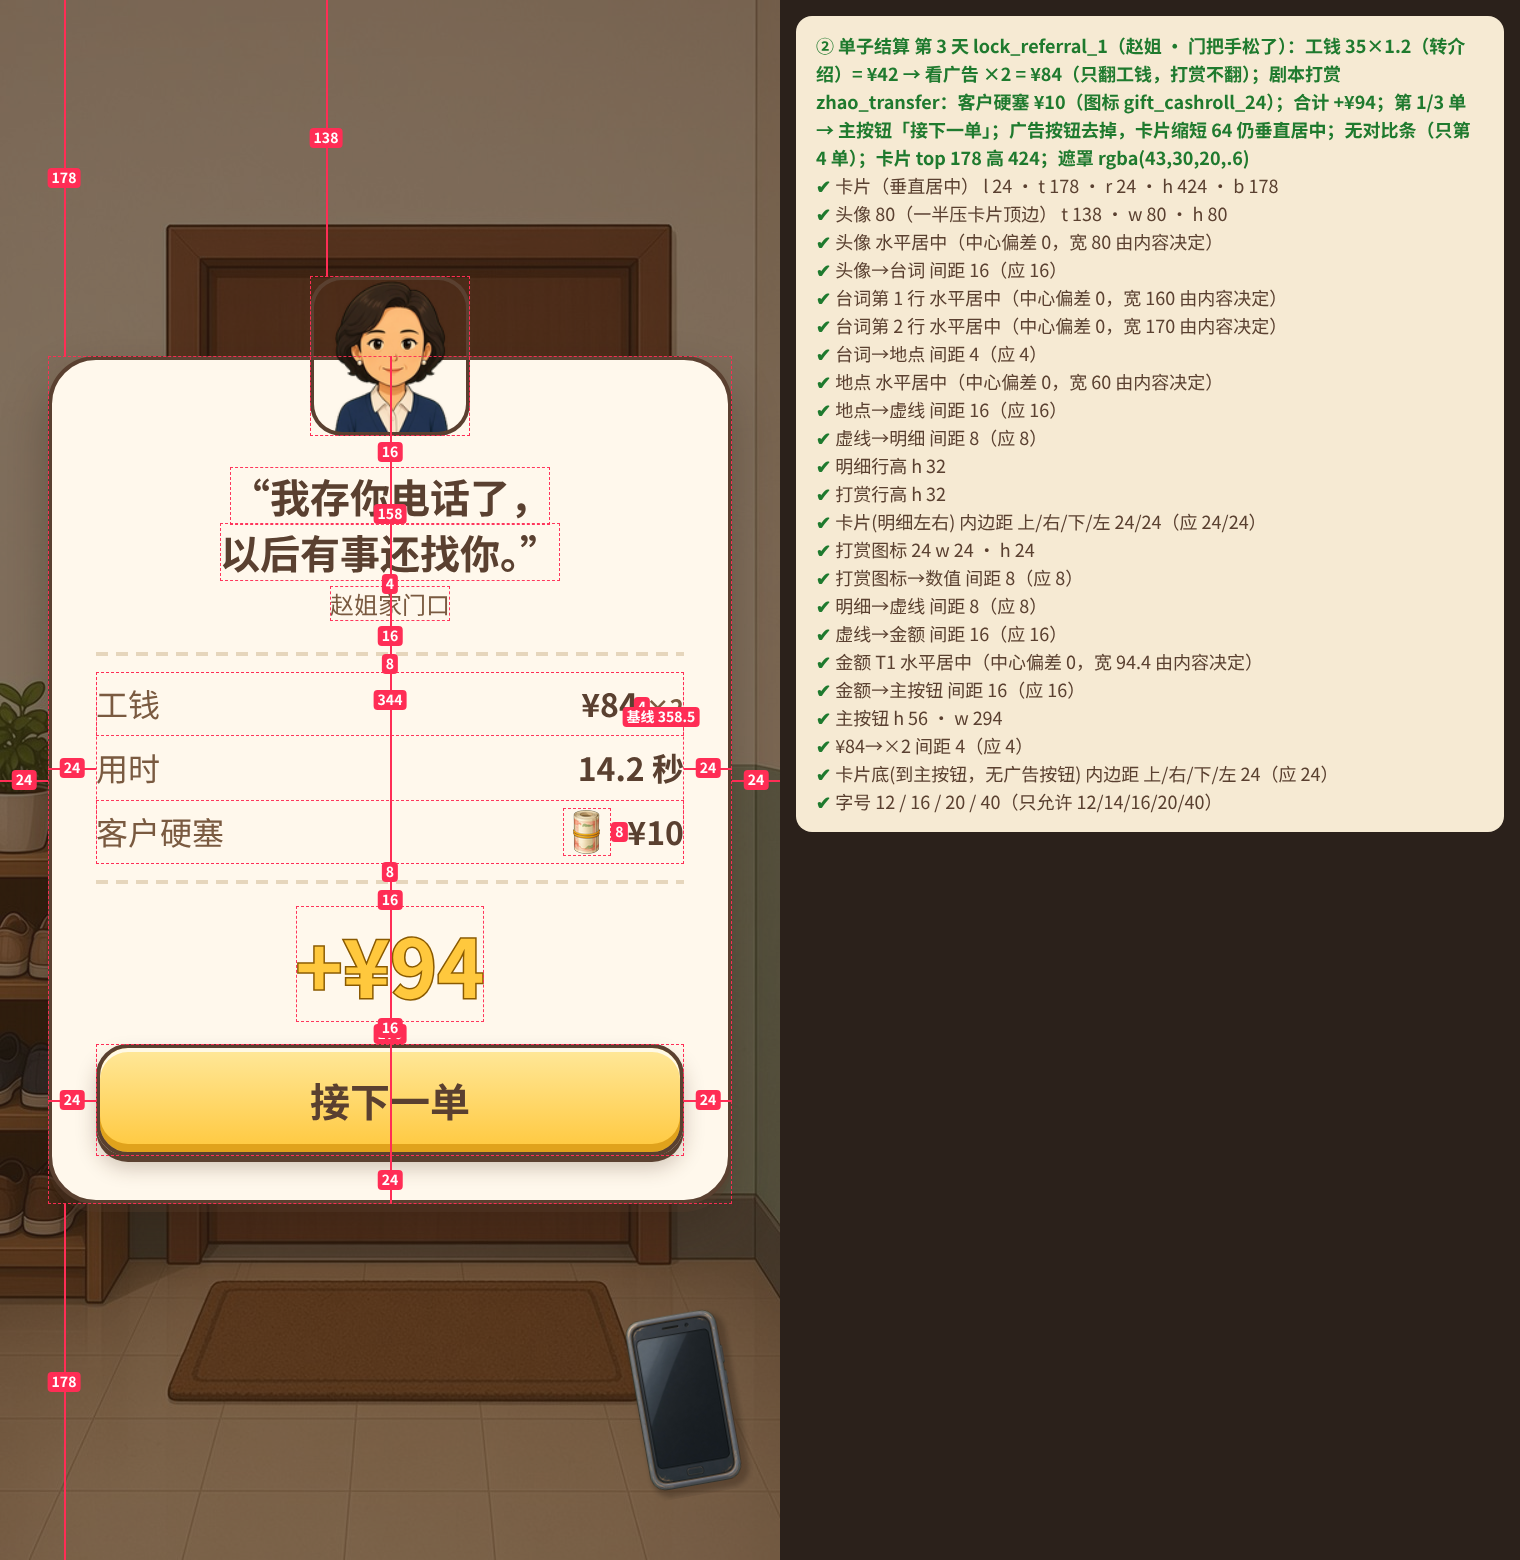
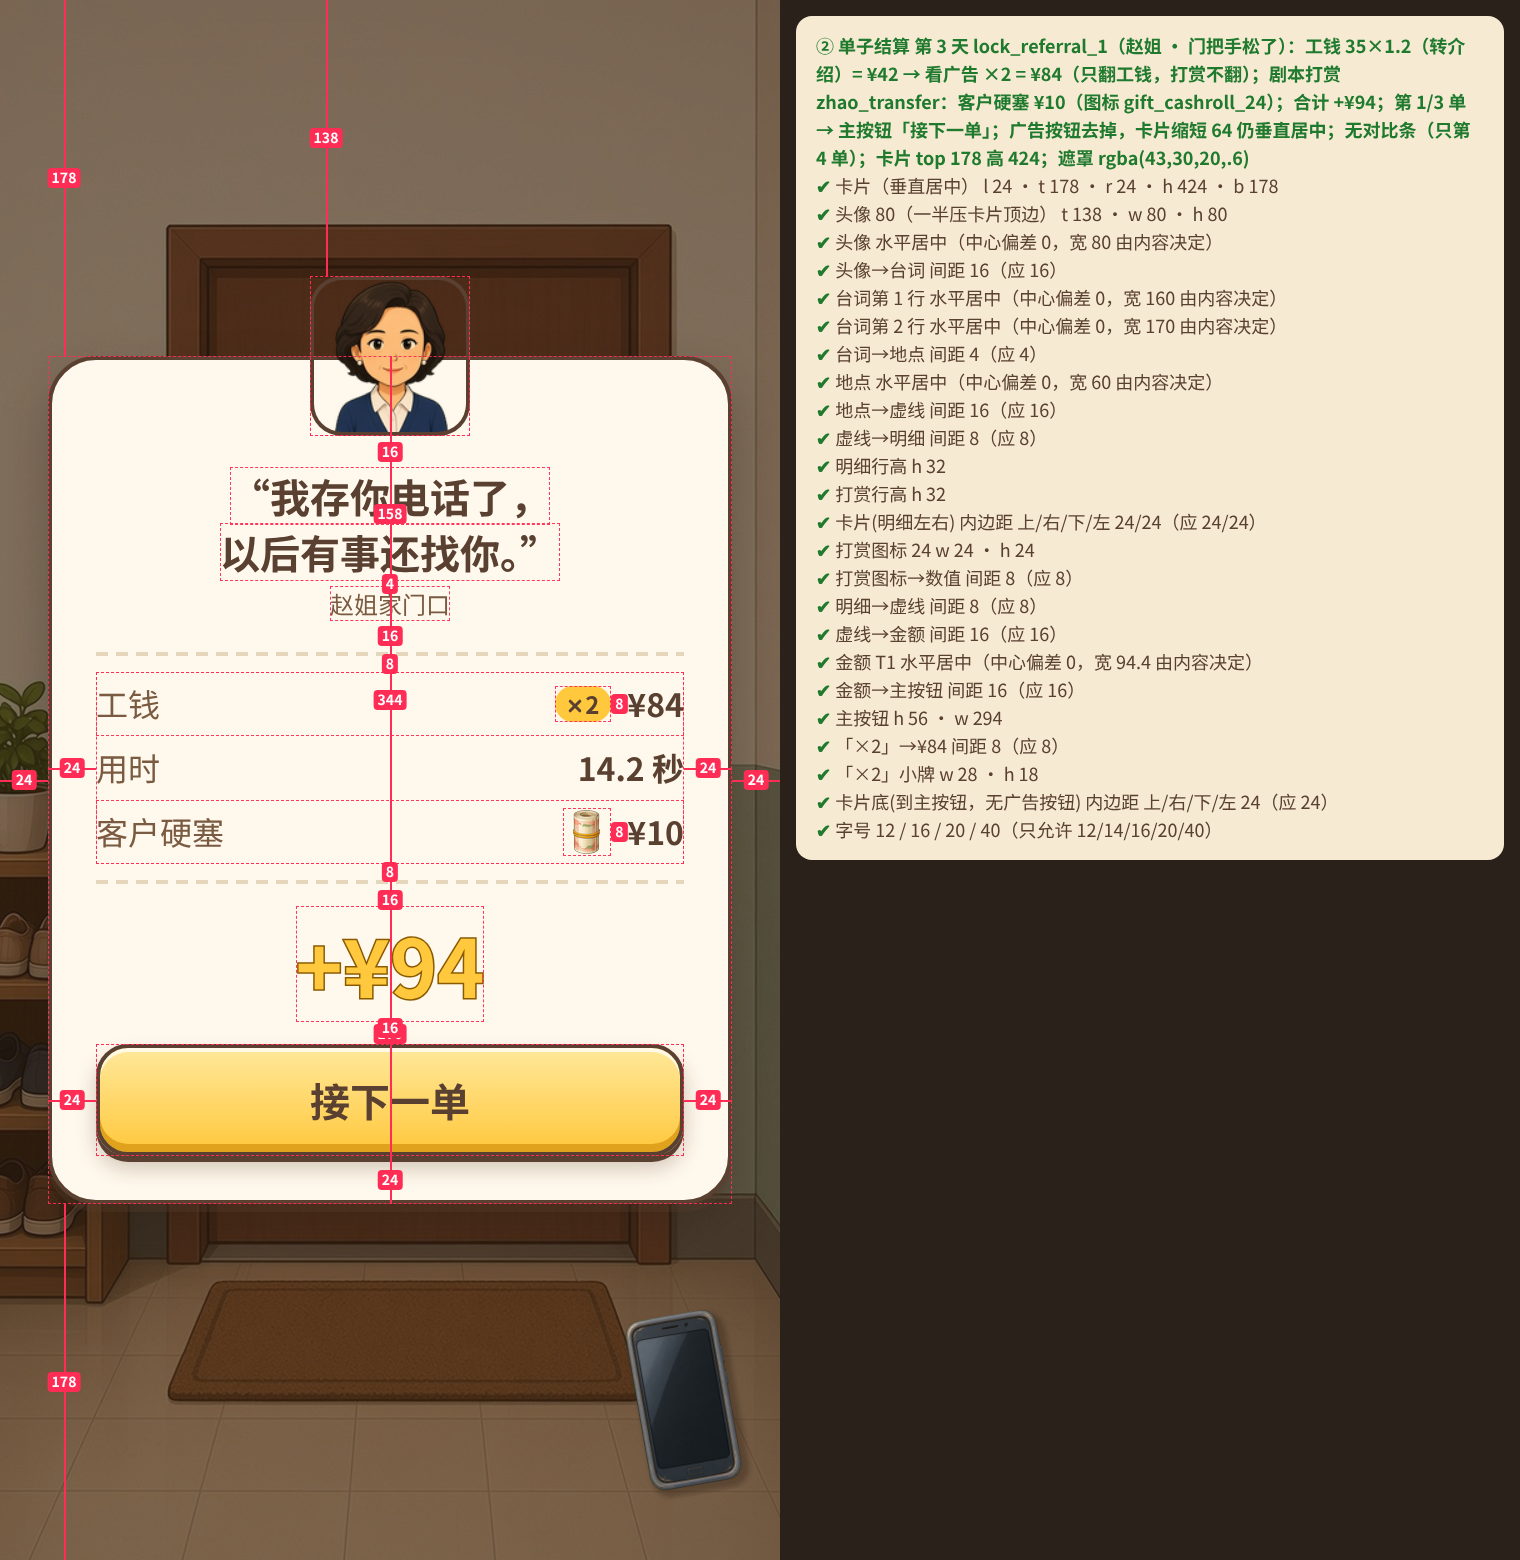
ui 结算翻倍态复审：「×2」改为数值左侧 8 的金色小牌 28×18（r9 #FFC83D，T5 Bold #5A4030 6.14:1，乘号代码画），工钱数值回到统一右沿 342；自检加三行数值同右沿断言（两张）、小牌尺寸/居中；对比度/基准/spec 同步

Changed region(s): [[0.5257, 0.4615, 0.9895, 0.5538], [0.3401, 0.4308, 0.4638, 0.4923]]

diff --git a/design/ui/hifi/v15/v15.css b/design/ui/hifi/v15/v15.css
@@ -134,8 +134,9 @@ body.annmode{width:760px!important;background:#2b211b}.note{position:absolute;le
 .kv3 .k{font-size:16px;line-height:24px;font-weight:400;color:#7A5A40}
 .kv3 .v{display:flex;align-items:center;font-size:16px;line-height:24px;font-weight:700;color:#5A4030;white-space:nowrap}
 .kv3 .v .gi{display:block;width:24px;height:24px;margin-right:8px}
-.kv3 .v .vb{display:flex;align-items:baseline}
-.kv3 .v .x2{font-size:12px;line-height:16px;font-weight:700;color:#7A5A40;margin-left:4px}
+.kv3 .v .x2p{display:flex;align-items:center;justify-content:center;width:28px;height:18px;border-radius:9px;background:#FFC83D;margin-right:8px;flex:none}
+.kv3 .v .x2p .mx{display:inline-block;width:8px;height:8px;margin-right:1px;vertical-align:0}
+.kv3 .v .x2p span{display:block;font-size:12px;line-height:16px;font-weight:700;color:#5A4030;white-space:nowrap}
 /* 次按钮 48（瓷面，圆角 16）：「▶ 看广告 工钱翻倍」，▶ 为代码画的 12×12 绿三角 #3F7F3A，和字隔 8 */
 .btn2{display:flex;align-items:center;justify-content:center;gap:8px;height:48px;border-radius:16px;border:2px solid #5A4030;background:linear-gradient(#FFFDF7 0%,#FBF1DD 60%,#F3E2C3 100%);box-shadow:inset 0 2px 0 #fff,inset 0 -3px 0 rgba(150,110,70,.18),0 2px 0 rgba(90,64,48,.35),0 4px 10px rgba(70,45,25,.2);font-size:16px;line-height:24px;font-weight:700;color:#5A4030;white-space:nowrap}
 .btn2.pressed{transform:translateY(2px);background:linear-gradient(#F7EBD3,#EEDCBC);box-shadow:inset 0 2px 3px rgba(90,64,48,.2)}

diff --git a/design/ui/hifi/v15/build.py b/design/ui/hifi/v15/build.py
@@ -190,7 +190,8 @@ import re as _re
 from PIL import Image as _I
 G2SRC = open(ROOT + '/src/g2.js').read()
 PLACE = dict(_re.findall(r"(\w+):'([^']+)'", _re.search(r"const PLACE=\{([^}]*)\}", G2SRC).group(1)))   # 地点取 src/g2.js PLACE（数据里没有）
-DBL = ECO['rewardedAds']['doublePay']        # target basePay，×multiplier；gifts.rules.adDoubleApplies=false → 打赏不翻
+DBL = ECO['rewardedAds']['doublePay']
+MULX = '<svg class="mx" viewBox="0 0 8 8"><path d="M1.6 1.6 L6.4 6.4 M6.4 1.6 L1.6 6.4" stroke="#5A4030" stroke-width="1.5" stroke-linecap="round"/></svg>'   # 乘号用代码画：Noto Sans CJK 的 × 笔画比 Bold 数字细一半，12px 下发虚；画成 4.8×4.8 交叉、线宽 1.5，居中在数字中线（数学轴），不画成粗短的小写 x  # DBL：target basePay，×multiplier；gifts.rules.adDoubleApplies=false → 打赏不翻
 def settle_info(oid, doubled=False):
     oi = order_info(oid); o = _ord(oid)
     sg = [g for g in ECO['gifts']['scripted'] if g['order'] == oid]
@@ -221,9 +222,9 @@ def settle_fn(doubled):
     H = 488 - (0 if not doubled else 64); TOP = (780 - H) // 2
     def fn(re):
         ql = quote_lines(si['line'])
-        wage_v = f'<span class="vb"><span id="vWage">¥{si["wage"]}<i class="blm" id="blW"></i></span>' + (f'<span class="x2" id="x2">×{DBL["multiplier"]}<i class="blm" id="blX"></i></span>' if doubled else '') + '</span>'
+        wage_v = (f'<span class="x2p" id="x2" data-t="×{DBL['multiplier']}"><span id="x2T">{MULX}{DBL["multiplier"]}</span></span>' if doubled else '') + f'<span id="vWage">¥{si["wage"]}</span>'
         rows = f'<div class="kv3" id="rWage"><span class="k">工钱</span><span class="v">{wage_v}</span></div>' \
-               f'<div class="kv3" id="rTime"><span class="k">用时</span><span class="v">14.2 秒</span></div>'
+               f'<div class="kv3" id="rTime"><span class="k">用时</span><span class="v"><span id="vTime">14.2 秒</span></span></div>'
         if g:
             gv = f'¥{g["amount"]}' if g['kind'] == 'cash' else g['item']
             rows += f'<div class="kv3" id="rGift"><span class="k">{g["label"]}</span><span class="v" id="vGiftBox"><img class="gi" id="gIcon" src="{A}ui/gifts/{g["icon"]}_24@2x.png" data-icon="{g["icon"]}" data-nw="{_I.open(ROOT + "/assets/ui/gifts/" + g["icon"] + "_24@2x.png").size[0]}"><span id="vGift">{gv}</span></span></div>'
@@ -251,8 +252,9 @@ def SETTLE_ANN(H, TOP, doubled, nq):
          dict(t='style', n='金额 T1', e='#dAmt', ex=dict(fs='40px', lh='48px', fw='700')),
          dict(t='gap', n='金额→主按钮', a='#dAmt', b='#btn', ax='v', e=16), dict(t='pos', n='主按钮', e='#btn', k=['h', 'w'], ex=dict(h=56, w=294))]
     if doubled:
-        a += [dict(t='gap', n='¥84→×2', a='#vWage', b='#x2', ax='h', e=4), dict(t='base', n='「×2」与工钱数值', a='#blW', b='#blX'),
-              dict(t='style', n='「×2」T5', e='#x2', ex=dict(fs='12px', lh='16px', fw='700', c='rgb(122, 90, 64)')),
+        a += [dict(t='gap', n='「×2」→¥84', a='#x2', b='#vWage', ax='h', e=8), dict(t='pos', n='「×2」小牌', e='#x2', k=['w', 'h'], ex=dict(w=28, h=18)),
+              dict(t='vc', n='「×2」小牌与工钱数值', a='#x2', b='#vWage'), dict(t='center', n='「×2」字在小牌内', e='#x2T', cx=None),
+              dict(t='style', n='「×2」T5 Bold', e='#x2T', ex=dict(fs='12px', lh='16px', fw='700', c='rgb(90, 64, 48)')),
               dict(t='pad', n='卡片底(到主按钮，无广告按钮)', c='#card', k='#btn', sides=[2], e=[None, None, 24, None])]
     else:
         a += [dict(t='gap', n='主按钮→广告次按钮', a='#btn', b='#btn2', ax='v', e=16), dict(t='pos', n='广告次按钮', e='#btn2', k=['h', 'w'], ex=dict(h=48, w=294)),
@@ -268,7 +270,7 @@ for _d in (False, True):
 # 参考图（不进 qa/pixel）：S4 用 shock 表情
 REF = {}
 
-TAILJS = '''(()=>{const S=window.STATE||'';const cn=document.querySelector('#coinNum');const m=S.match(/金币 (\\d+)/);if(m&&cn)chk(m[1]===cn.textContent.trim(),`状态说明「金币 ${m[1]}」= HUD ${cn.textContent.trim()}`);const pm=S.match(/本单 ¥(\\d+)/),vv=document.querySelector('.tg .vv');if(pm&&vv)chk('¥'+pm[1]===vv.textContent.trim(),`状态说明「本单 ¥${pm[1]}」= HUD ${vv.textContent.trim()}`);const tm=S.match(/通话中 (\\d\\d:\\d\\d)/),cs=document.querySelector('#cstat');if(tm&&cs)chk(cs.textContent.includes(tm[1]),`状态说明「通话中 ${tm[1]}」= 界面「${cs.textContent.trim()}」`);const pt=S.match(/耐心剩? ?(\\d)/),w=document.querySelector('[data-order]');if(pt&&w)chk(pt[1]===w.dataset.pat,`状态说明「耐心 ${pt[1]}」= HUD ${w.dataset.pat}`);const dm=S.match(/第 (\\d+) 天/),dd=document.querySelector('#dSubT,#sDay');if(dm&&dd)chk(dd.textContent.includes('第 '+dm[1]+' 天'),`状态说明「第 ${dm[1]} 天」= 界面「${dd.textContent}」`);const am=S.match(/今日收入 \\+¥(\\d+)/),at=document.querySelector('#dAmtT');if(am&&at){const sum=[...document.querySelectorAll('.kv2 .v')].reduce((a,e)=>a+parseInt(e.textContent.slice(1)),0);chk(at.textContent==='+¥'+am[1]&&sum===+am[1],`今日收入 ${at.textContent} = 明细合计 ¥${sum}`)}})();(()=>{const ps=document.querySelector('#proSlot'),cn=document.querySelector('#coinNum');if(!ps||!cn)return;const m=parseInt(cn.textContent),pr=+ps.dataset.price,st=ps.dataset.state;const exp=st==='bought'?'bought':(m>=pr?'ready':'locked');chk(st===exp,`第 4 格状态 ${st}（由金币 ${m} ${m>=pr?'≥':'<'} 价格 ${pr} 推导应为 ${exp}）`);if(st!=='bought'){const lb=Q('#proLabel').textContent,bd=Q('#lockBadge').classList.contains('rdy');const okl=st==='locked'?(lb==='¥'+pr+' 解锁'&&!bd):(lb==='点击解锁'&&bd);chk(okl,`第 4 格标签「${lb}」/ 角标 ${bd?'金色开锁':'黄铜锁'} 与状态 ${st} 一致`)}})();(()=>{const w=document.querySelector('[data-order]');if(!w)return;const pat=+w.dataset.pat,mx=+w.dataset.patmax;const segs=[...w.querySelectorAll('.pat i')];const on=segs.filter(i=>!i.classList.contains('lost')&&!i.classList.contains('lk')).length;const lk=segs.filter(i=>i.classList.contains('lk')).length;chk(on===pat&&lk===4-mx,`耐心 ${on} 格亮 / 锁 ${lk} 格（订单 ${w.dataset.order} 上限 ${mx}）`);const av=(w.querySelector('.av').style.backgroundImage.match(/avatar_[a-z_]+?_(p\\d|shock)@2x/)||[])[1];const pl=Math.max(1,Math.min(4,1+(mx-pat)));const ea=w.dataset.mood==='shock'?'shock':'p'+pl;chk(av===ea,`表情 ${av}（耐心掉 ${mx-pat} 格→${ea}${w.dataset.mood?'，剧本 mood '+w.dataset.mood:''}）`);const pay=Q('.tg .vv').textContent;chk(pay===w.dataset.pay,`本单 ${pay}（订单 ${w.dataset.order} 数据推导 ${w.dataset.pay}）`)})();ANN.filter(a=>a.t==='vc').forEach(a=>{const A=R(Q(a.a)),B=R(Q(a.b));const d=(A.t+A.b)/2-(B.t+B.b)/2;chk(Math.abs(d)<=0.5,`${a.n} 垂直居中（中心差 ${f(d)}）`)});(()=>{const c=document.querySelector('#card[data-wage0]');if(!c)return;const D=c.dataset,dm=+D.dm,w=(+D.wage0)*dm,gi=+D.gift;chk(+D.wage0===Math.round(+D.base*(+D.srcmult)),`工钱 ¥${D.wage0} = 底价 ${D.base} × 来源 ${D.srcmult}（economy.json）`);chk(Q('#vWage').textContent.trim()==='¥'+w,`工钱行 ${Q('#vWage').textContent.trim()} = ¥${D.wage0}×${dm}`);const x2=document.querySelector('#x2');chk((dm>1)===!!x2&&(!x2||x2.textContent.trim()==='×'+dm),`「×${dm}」标签${x2?'有':'无'}（翻倍 ${D.doubled}）`);const ad=document.querySelector('#btn2');chk((D.doubled==='1')!==!!ad,`广告次按钮${ad?'有':'无'}（翻倍后去掉）`);const gv=document.querySelector('#vGift');if(gv)chk(gv.textContent.trim()==='¥'+gi,`打赏行 ${gv.textContent.trim()} = economy.json scripted ¥${gi}（翻倍不变）`);const ic=document.querySelector('#gIcon');if(ic)chk(ic.getAttribute('src').endsWith('/'+D.icon+'_24@2x.png')&&+ic.dataset.nw===48,`打赏图标 ${D.icon}_24@2x（narrative.json icon；源图 ${ic.dataset.nw}px = 24×2，不缩放）`);chk(Q('#dAmtT').textContent==='+¥'+(w+gi)&&+D.total===w+gi,`合计 ${Q('#dAmtT').textContent} = 工钱 ¥${w} + 现金打赏 ¥${gi}`);chk(Q('#btn').textContent.trim()===D.button,`主按钮「${Q('#btn').textContent.trim()}」`)})();ANN.filter(a=>a.t==='base').forEach(a=>{const A=R(Q(a.a)),B=R(Q(a.b));chk(eqv(A.t,B.t),`${a.n} 基线 y ${f(A.t)} / ${f(B.t)}（应相同）`);if(SHOW)hseg(A.l-4,B.l+4,A.t,'基线 '+f(A.t))});ANN.filter(a=>a.t==='style').forEach(a=>{const c=getComputedStyle(Q(a.e));const v={fs:c.fontSize,lh:c.lineHeight,fw:c.fontWeight,c:c.color,num:c.fontVariantNumeric};const ok=Object.keys(a.ex).every(k=>v[k]===a.ex[k]);chk(ok,`${a.n} 字 ${v.fs}/${v.lh} 字重 ${v.fw} ${v.c} ${v.num}`)});ANN.filter(a=>a.t==='inset').forEach(a=>{const r=R(Q(a.e));const ir=a.fr-r.r,it=r.t-a.ft;chk(eqv(ir,a.ex)&&eqv(it,a.ex),`${a.n}：右 ${f(ir)} / 上 ${f(it)}（应 ${a.ex}；内沿实测 x ${a.fr}、y ${a.ft}；角标完全在格内，不压箱沿）`);if(SHOW){hseg(r.r,a.fr,r.t+12,f(ir));vseg(a.ft,r.t,r.l+12,f(it))}});ANN.filter(a=>a.t==='tail').length&&(()=>{const b=R(Q('.bb')),s=R(Q('.bb .tail'));const base=s.l+2-b.l,apex=s.t;chk(eqv(base,24)&&eqv(apex,152),`尖角：底边起点离气泡左边 ${f(base)}（应 24），宽 16，尖顶 y ${f(apex)}（贴客户卡底 152）`);if(SHOW){hseg(b.l,s.l+2,b.t-12,f(base))}})();'''
+TAILJS = '''(()=>{const S=window.STATE||'';const cn=document.querySelector('#coinNum');const m=S.match(/金币 (\\d+)/);if(m&&cn)chk(m[1]===cn.textContent.trim(),`状态说明「金币 ${m[1]}」= HUD ${cn.textContent.trim()}`);const pm=S.match(/本单 ¥(\\d+)/),vv=document.querySelector('.tg .vv');if(pm&&vv)chk('¥'+pm[1]===vv.textContent.trim(),`状态说明「本单 ¥${pm[1]}」= HUD ${vv.textContent.trim()}`);const tm=S.match(/通话中 (\\d\\d:\\d\\d)/),cs=document.querySelector('#cstat');if(tm&&cs)chk(cs.textContent.includes(tm[1]),`状态说明「通话中 ${tm[1]}」= 界面「${cs.textContent.trim()}」`);const pt=S.match(/耐心剩? ?(\\d)/),w=document.querySelector('[data-order]');if(pt&&w)chk(pt[1]===w.dataset.pat,`状态说明「耐心 ${pt[1]}」= HUD ${w.dataset.pat}`);const dm=S.match(/第 (\\d+) 天/),dd=document.querySelector('#dSubT,#sDay');if(dm&&dd)chk(dd.textContent.includes('第 '+dm[1]+' 天'),`状态说明「第 ${dm[1]} 天」= 界面「${dd.textContent}」`);const am=S.match(/今日收入 \\+¥(\\d+)/),at=document.querySelector('#dAmtT');if(am&&at){const sum=[...document.querySelectorAll('.kv2 .v')].reduce((a,e)=>a+parseInt(e.textContent.slice(1)),0);chk(at.textContent==='+¥'+am[1]&&sum===+am[1],`今日收入 ${at.textContent} = 明细合计 ¥${sum}`)}})();(()=>{const ps=document.querySelector('#proSlot'),cn=document.querySelector('#coinNum');if(!ps||!cn)return;const m=parseInt(cn.textContent),pr=+ps.dataset.price,st=ps.dataset.state;const exp=st==='bought'?'bought':(m>=pr?'ready':'locked');chk(st===exp,`第 4 格状态 ${st}（由金币 ${m} ${m>=pr?'≥':'<'} 价格 ${pr} 推导应为 ${exp}）`);if(st!=='bought'){const lb=Q('#proLabel').textContent,bd=Q('#lockBadge').classList.contains('rdy');const okl=st==='locked'?(lb==='¥'+pr+' 解锁'&&!bd):(lb==='点击解锁'&&bd);chk(okl,`第 4 格标签「${lb}」/ 角标 ${bd?'金色开锁':'黄铜锁'} 与状态 ${st} 一致`)}})();(()=>{const w=document.querySelector('[data-order]');if(!w)return;const pat=+w.dataset.pat,mx=+w.dataset.patmax;const segs=[...w.querySelectorAll('.pat i')];const on=segs.filter(i=>!i.classList.contains('lost')&&!i.classList.contains('lk')).length;const lk=segs.filter(i=>i.classList.contains('lk')).length;chk(on===pat&&lk===4-mx,`耐心 ${on} 格亮 / 锁 ${lk} 格（订单 ${w.dataset.order} 上限 ${mx}）`);const av=(w.querySelector('.av').style.backgroundImage.match(/avatar_[a-z_]+?_(p\\d|shock)@2x/)||[])[1];const pl=Math.max(1,Math.min(4,1+(mx-pat)));const ea=w.dataset.mood==='shock'?'shock':'p'+pl;chk(av===ea,`表情 ${av}（耐心掉 ${mx-pat} 格→${ea}${w.dataset.mood?'，剧本 mood '+w.dataset.mood:''}）`);const pay=Q('.tg .vv').textContent;chk(pay===w.dataset.pay,`本单 ${pay}（订单 ${w.dataset.order} 数据推导 ${w.dataset.pay}）`)})();ANN.filter(a=>a.t==='vc').forEach(a=>{const A=R(Q(a.a)),B=R(Q(a.b));const d=(A.t+A.b)/2-(B.t+B.b)/2;chk(Math.abs(d)<=0.5,`${a.n} 垂直居中（中心差 ${f(d)}）`)});(()=>{const c=document.querySelector('#card[data-wage0]');if(!c)return;const D=c.dataset,dm=+D.dm,w=(+D.wage0)*dm,gi=+D.gift;chk(+D.wage0===Math.round(+D.base*(+D.srcmult)),`工钱 ¥${D.wage0} = 底价 ${D.base} × 来源 ${D.srcmult}（economy.json）`);chk(Q('#vWage').textContent.trim()==='¥'+w,`工钱行 ${Q('#vWage').textContent.trim()} = ¥${D.wage0}×${dm}`);const x2=document.querySelector('#x2');chk((dm>1)===!!x2&&(!x2||x2.dataset.t==='×'+dm),`翻倍小牌${x2?'「'+x2.dataset.t+'」有':'无'}（翻倍 ${D.doubled}）`);const ad=document.querySelector('#btn2');chk((D.doubled==='1')!==!!ad,`广告次按钮${ad?'有':'无'}（翻倍后去掉）`);const gv=document.querySelector('#vGift');if(gv)chk(gv.textContent.trim()==='¥'+gi,`打赏行 ${gv.textContent.trim()} = economy.json scripted ¥${gi}（翻倍不变）`);const ic=document.querySelector('#gIcon');if(ic)chk(ic.getAttribute('src').endsWith('/'+D.icon+'_24@2x.png')&&+ic.dataset.nw===48,`打赏图标 ${D.icon}_24@2x（narrative.json icon；源图 ${ic.dataset.nw}px = 24×2，不缩放）`);chk(Q('#dAmtT').textContent==='+¥'+(w+gi)&&+D.total===w+gi,`合计 ${Q('#dAmtT').textContent} = 工钱 ¥${w} + 现金打赏 ¥${gi}`);const rv=['#vWage','#vTime','#vGift'].map(q=>document.querySelector(q)).filter(Boolean).map(e=>R(e).r);chk(rv.length>=2&&rv.every(v=>Math.abs(v-rv[0])<0.06)&&Math.abs(rv[0]-(R(Q('#card')).r-24))<0.06,`明细数值右沿 ${rv.map(f).join(' / ')}（应同为卡片内沿 ${f(R(Q('#card')).r-24)}）`);const x2e=document.querySelector('#x2T');if(x2e){const pr=R(Q('#x2')),tr=R(x2e);chk(Math.abs((pr.l+pr.r)/2-(tr.l+tr.r)/2)<=0.5&&Math.abs((pr.t+pr.b)/2-(tr.t+tr.b)/2)<=0.5,`「×2」字在小牌内居中（水平差 ${f((pr.l+pr.r)/2-(tr.l+tr.r)/2)} / 垂直差 ${f((pr.t+pr.b)/2-(tr.t+tr.b)/2)}）`)}chk(Q('#btn').textContent.trim()===D.button,`主按钮「${Q('#btn').textContent.trim()}」`)})();ANN.filter(a=>a.t==='base').forEach(a=>{const A=R(Q(a.a)),B=R(Q(a.b));chk(eqv(A.t,B.t),`${a.n} 基线 y ${f(A.t)} / ${f(B.t)}（应相同）`);if(SHOW)hseg(A.l-4,B.l+4,A.t,'基线 '+f(A.t))});ANN.filter(a=>a.t==='style').forEach(a=>{const c=getComputedStyle(Q(a.e));const v={fs:c.fontSize,lh:c.lineHeight,fw:c.fontWeight,c:c.color,num:c.fontVariantNumeric};const ok=Object.keys(a.ex).every(k=>v[k]===a.ex[k]);chk(ok,`${a.n} 字 ${v.fs}/${v.lh} 字重 ${v.fw} ${v.c} ${v.num}`)});ANN.filter(a=>a.t==='inset').forEach(a=>{const r=R(Q(a.e));const ir=a.fr-r.r,it=r.t-a.ft;chk(eqv(ir,a.ex)&&eqv(it,a.ex),`${a.n}：右 ${f(ir)} / 上 ${f(it)}（应 ${a.ex}；内沿实测 x ${a.fr}、y ${a.ft}；角标完全在格内，不压箱沿）`);if(SHOW){hseg(r.r,a.fr,r.t+12,f(ir));vseg(a.ft,r.t,r.l+12,f(it))}});ANN.filter(a=>a.t==='tail').length&&(()=>{const b=R(Q('.bb')),s=R(Q('.bb .tail'));const base=s.l+2-b.l,apex=s.t;chk(eqv(base,24)&&eqv(apex,152),`尖角：底边起点离气泡左边 ${f(base)}（应 24），宽 16，尖顶 y ${f(apex)}（贴客户卡底 152）`);if(SHOW){hseg(b.l,s.l+2,b.t-12,f(base))}})();'''
 def write(name, body, state, ann, mode):
     js = open('layout.js').read()
     if mode == 'ann':

diff --git a/design/ui/hifi/v15/contrast.py b/design/ui/hifi/v15/contrast.py
@@ -81,7 +81,7 @@ solid('单子结算 客户台词 T2 #5A4030 / 卡片', hx('#5A4030'), SG, (30, 2
 solid('单子结算 地点 T5 #7A5A40 / 卡片', hx('#7A5A40'), SG, (30, 262, 100, 16))
 solid('单子结算 明细标签「工钱/用时/客户硬塞」#7A5A40 / 卡片', hx('#7A5A40'), SG, (140, 312, 80, 88))
 solid('单子结算 明细数值 #5A4030 / 卡片', hx('#5A4030'), SG, (140, 312, 80, 88))
-solid('翻倍后「×2」T5 #7A5A40 / 卡片', hx('#7A5A40'), SD, (140, 346, 80, 16))
+rows.append(dict(item='翻倍小牌「×2」T5 Bold #5A4030（乘号代码画同色）/ 小牌底 #FFC83D', need=4.5, 纯色=round(cr(hx('#5A4030'), hx('#FFC83D')), 2), ok=cr(hx('#5A4030'), hx('#FFC83D')) >= 4.5))
 solid('单子结算 金额描边 #8A5A00 / 卡片', hx('#8A5A00'), SG, (30, 418, 60, 40))
 rows.append(dict(item='广告次按钮字 #5A4030 / 瓷面最深处 #F3E2C3', need=4.5, 纯色=round(cr(hx('#5A4030'), hx('#F3E2C3')), 2), ok=cr(hx('#5A4030'), hx('#F3E2C3')) >= 4.5))
 rows.append(dict(item='广告次按钮 ▶ #3F7F3A / 瓷面最深处 #F3E2C3（非文字 3:1；#3F9946 只有 2.81 弃用）', need=3, 纯色=round(cr(hx('#3F7F3A'), hx('#F3E2C3')), 2), ok=cr(hx('#3F7F3A'), hx('#F3E2C3')) >= 3))
